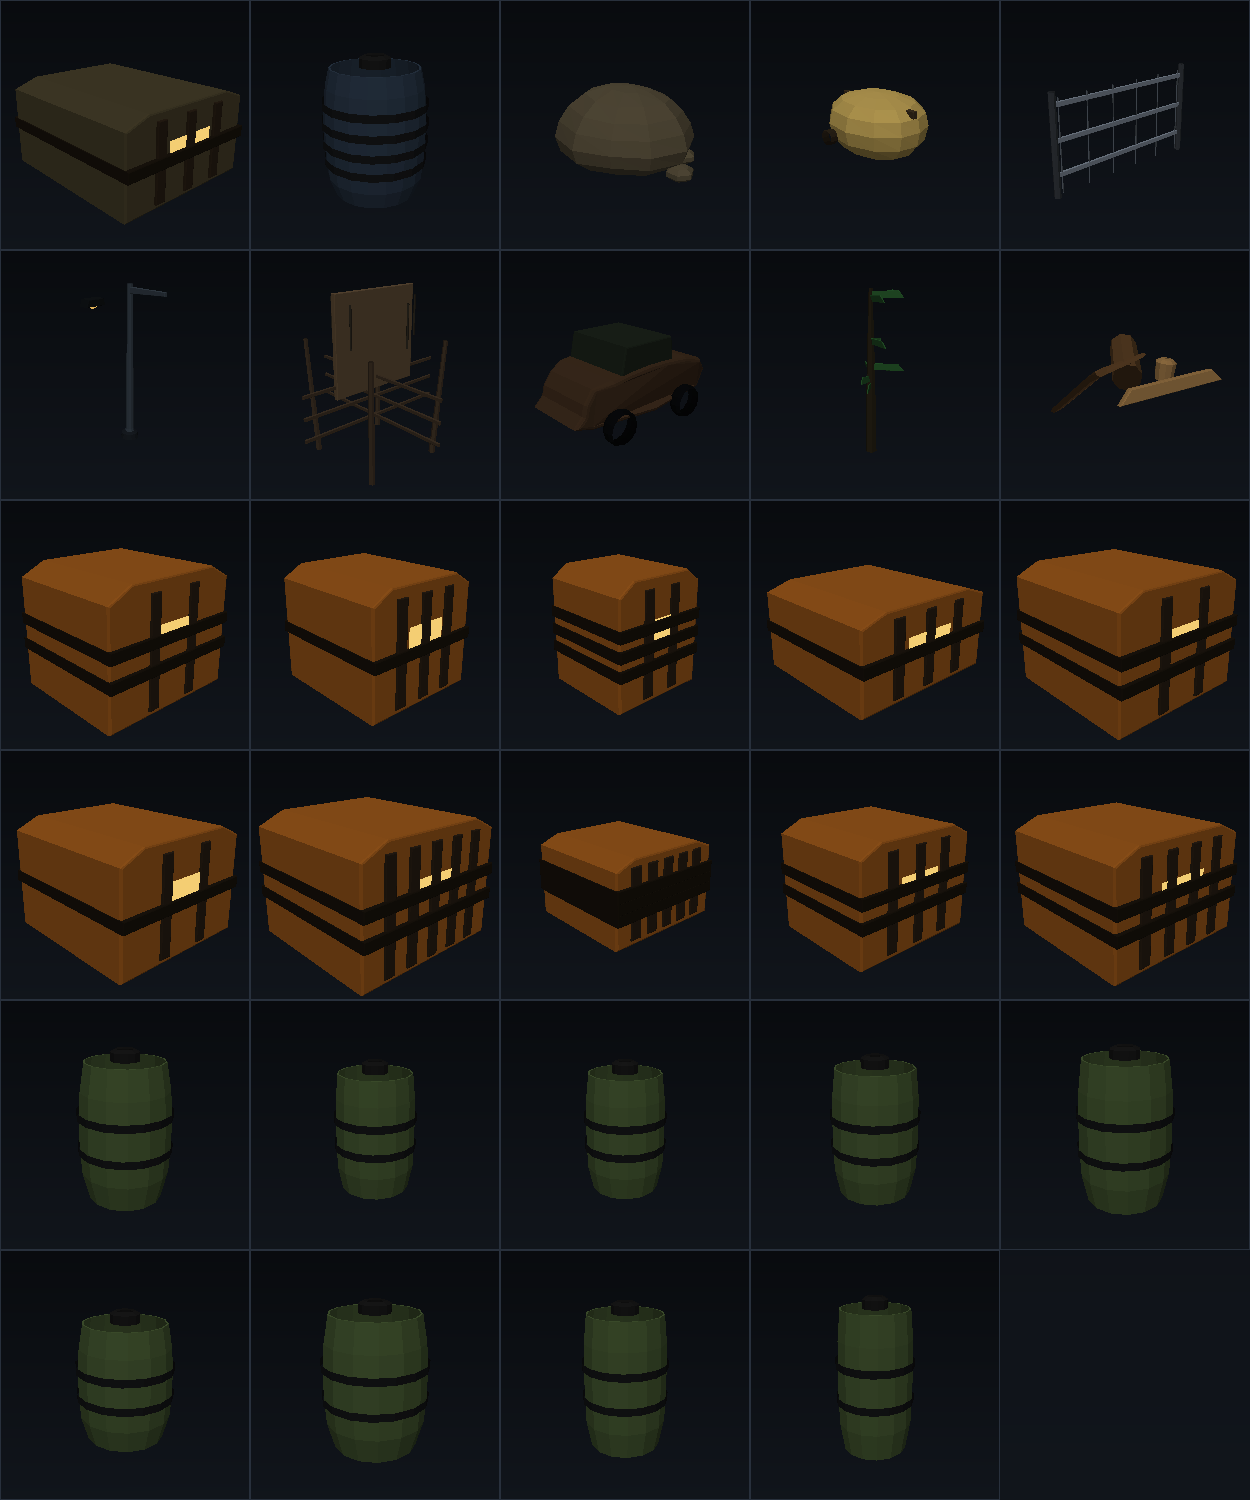
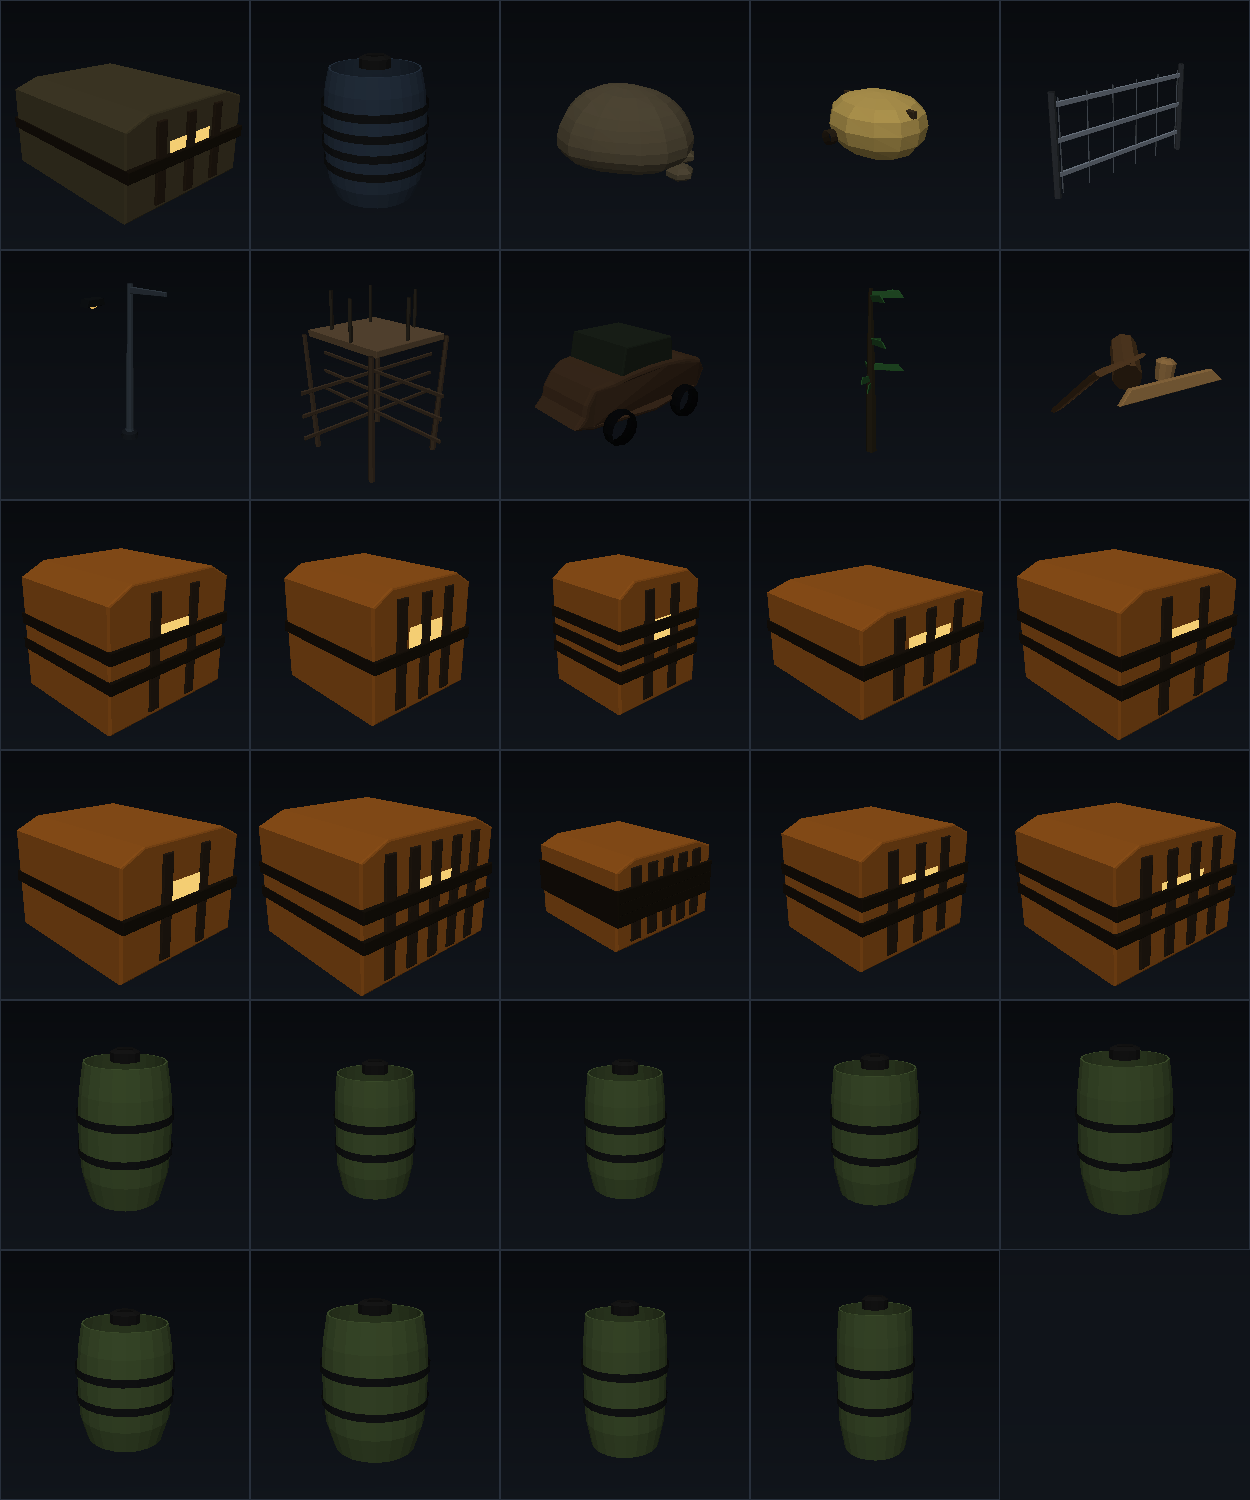
shooter-2: починен «сереющий» белый материал, ящики с каркасом, больше сегментов и процедурный шум поверхностей

Changed region(s): [[0.2496, 0.184, 0.3744, 0.3067]]

diff --git a/shooter-2/src/level.js b/shooter-2/src/level.js
@@ -119,9 +119,9 @@
       { at: [0, BAG_H * 0.90, 0], pts: oval(0.86) },
       { at: [0, BAG_H * 1.00, 0], pts: oval(0.62) }
     ]);
-    const m = SH2.model.mat(color || 0x6f6547, { flat: true });
+    const m = SH2.model.mat(color || 0x6f6547, { flat: true, mapNoise: 'blotch' });
     // второй тон — часть мешков чуть темнее, чтобы кладка читалась без швов
-    const m2 = SH2.model.mat(0x645c40, { flat: true });
+    const m2 = SH2.model.mat(0x645c40, { flat: true, mapNoise: 'blotch' });
     const n = Math.max(3, Math.round(len / STEP));
     const rnd = (i, r) => {
       const v = Math.sin(i * 12.9898 + r * 78.233) * 43758.5453;
@@ -487,6 +487,14 @@
     return m;
   }
 
+  /* Затемнить/осветлить цвет, не трогая исходный объект: множитель
+     применяется к каналам, результат — новый 0xRRGGBB. */
+  function shade(color, k) {
+    const r = (color >> 16) & 255, g = (color >> 8) & 255, b = color & 255;
+    const ch = (v) => Math.max(0, Math.min(255, Math.round(k < 0 ? v * (1 + k) : v + (255 - v) * k)));
+    return (ch(r) << 16) | (ch(g) << 8) | ch(b);
+  }
+
   /* морской контейнер: рёбра жёсткости по бортам, рифлёный */
   function container(len, h, color) {
     const T = THREE();
@@ -496,8 +504,12 @@
     const rib = SH2.outline.outlineMesh([
       [-0.02, h - 0.10], [0.02, h - 0.10], [0.02, 0.10], [-0.02, 0.10]
     ], { depth: 0.04, bevel: 0.008 });
-    const ribMat = SH2.model.mat(0xffffff, { flat: true });
-    ribMat.color.offsetHSL(0, 0, -0.06);
+    /* Рёбра темнее корпуса. Раньше здесь брался материал из общего кэша
+       (SH2.model.mat(0xffffff)) и затемнялся на месте — а кэш один на всю
+       игру, поэтому каждый контейнер гасил ОДИН И ТОТ ЖЕ белый материал:
+       после пятого контейнера любая белая деталь карты становилась серой.
+       Теперь цвет считается заранее и не мутирует чужой материал. */
+    const ribMat = SH2.model.mat(shade(color, -0.09), { flat: true, mapNoise: 'grain' });
     const n = Math.max(3, Math.round(len / 0.62));
     for (let i = 0; i < n; i++) {
       const x = -len / 2 + (i + 0.5) * (len / n);
@@ -1010,8 +1022,8 @@
     const o = opts || {};
     const g = new T.Group();
     const colliders = [];
-    const dark = SH2.model.mat(0x3a3a35, { flat: true });
-    const postMat = SH2.model.mat(0x4a4a42, { flat: true });
+    const dark = SH2.model.mat(0x3a3a35, { flat: true, mapNoise: 'grain' });
+    const postMat = SH2.model.mat(0x4a4a42, { flat: true, mapNoise: 'grain' });
     const wireMat = SH2.model.mat(0x6a6f68, { flat: false });
 
     // сетка-рабица: полотно из редких прутьев (не текстура, а геометрия)
@@ -1173,21 +1185,62 @@
     return g;
   }
 
-  /* ящики: сложенный штабель, каждый ящик чуть повёрнут */
+  /* ящик: корпус + силовой каркас. Без каркаса это был просто параллелепипед
+     со скошенными рёбрами — именно он и выглядел «коробкой из примитивов».
+     Геометрия каркаса строится один раз и переиспользуется всеми ящиками. */
+  let crateKit = null;
+  function crateParts() {
+    if (crateKit) return crateKit;
+    const O = SH2.outline;
+    const W = 0.64, H = 0.62, half = W / 2;
+    /* угловые стойки: узкий брусок по высоте ящика */
+    const post = O.outlineMesh([[-0.035, 0.02], [0.035, 0.02], [0.030, H - 0.02], [-0.030, H - 0.02]],
+      { depth: 0.07, bevel: 0.006 });
+    /* две стяжные ленты по периметру */
+    const belt = O.outlineMesh([[-half - 0.012, -0.028], [half + 0.012, -0.028],
+      [half + 0.012, 0.028], [-half - 0.012, 0.028]], { depth: W + 0.024, bevel: 0.006 });
+    /* поперечина-накладка на крышке */
+    const lid = O.outlineMesh([[-half + 0.05, 0], [half - 0.05, 0], [half - 0.05, 0.018], [-half + 0.05, 0.018]],
+      { depth: 0.10, bevel: 0.004 });
+    crateKit = { post, belt, lid, H, half };
+    return crateKit;
+  }
+
   function crates(n, color) {
     const T = THREE();
     const g = new T.Group();
     const geo = SH2.outline.outlineMesh([[-0.32, 0], [0.32, 0], [0.32, 0.62], [-0.32, 0.62]], { depth: 0.62, bevel: 0.05 });
-    const m = SH2.model.mat(color || 0x5b4a33, { flat: true });
+    const base = color || 0x5b4a33;
+    const m = SH2.model.mat(base, { flat: true, mapNoise: 'blotch' });
+    const wood = SH2.model.mat(shade(base, -0.16), { flat: true, mapNoise: 'blotch' });
+    const kit = crateParts();
     let placed = 0;
     for (let layer = 0; layer < 3 && placed < n; layer++) {
       const k = Math.min(n - placed, 3 - layer);
       for (let i = 0; i < k; i++) {
-        const mesh = new T.Mesh(geo, m);
-        mesh.position.set((i - (k - 1) / 2) * 0.68, layer * 0.64, (Math.random() - 0.5) * 0.05);
-        mesh.rotation.y = (Math.random() - 0.5) * 0.12;
-        mesh.castShadow = true; mesh.receiveShadow = true;
-        g.add(mesh);
+        const one = new T.Group();
+        const body = new T.Mesh(geo, m);
+        body.castShadow = true; body.receiveShadow = true;
+        one.add(body);
+        /* каркас — четыре стойки, две ленты, накладка */
+        for (const sx of [-1, 1]) for (const sz of [-1, 1]) {
+          const p = new T.Mesh(kit.post, wood);
+          p.position.set(sx * (kit.half + 0.002), 0, sz * (kit.half + 0.002));
+          p.castShadow = true;
+          one.add(p);
+        }
+        for (const y of [kit.H * 0.22, kit.H * 0.78]) {
+          const b = new T.Mesh(kit.belt, wood);
+          b.position.set(0, y, 0);
+          one.add(b);
+        }
+        const l = new T.Mesh(kit.lid, wood);
+        l.position.set(0, kit.H, 0);
+        one.add(l);
+
+        one.position.set((i - (k - 1) / 2) * 0.68, layer * 0.64, (Math.random() - 0.5) * 0.05);
+        one.rotation.y = (Math.random() - 0.5) * 0.12;
+        g.add(one);
         placed++;
       }
     }

diff --git a/shooter-2/src/model.js b/shooter-2/src/model.js
@@ -27,13 +27,57 @@
     return (L(r) << 16) | (L(g) << 8) | L(b);
   }
 
+  /* Материал по цвету и настройкам. Кэш один на игру, поэтому материал,
+     выданный отсюда, считается ОБЩИМ: менять его цвет на месте нельзя —
+     потемнеет всё, что этим цветом нарисовано (так «серела» вся карта от
+     рёбер контейнеров). Процедурный шум поверхности — mapNoise. */
+  const noiseCache = new Map();
+
+  /* Мягкий процедурный шум в canvas-текстуре: даёт «материальность» без
+     внешних файлов. Один и тот же шум переиспользуется всеми материалами
+     с этим ключом, поэтому на всю карту приходится 2–3 текстуры. */
+  function noiseTexture(kind) {
+    if (noiseCache.has(kind)) return noiseCache.get(kind);
+    const T = THREE();
+    const doc = root.document;
+    let tex = null;
+    if (doc && doc.createElement) {
+      const cv = doc.createElement('canvas');
+      const size = kind === 'grain' ? 64 : 128;
+      cv.width = cv.height = size;
+      const g = cv.getContext && cv.getContext('2d');
+      if (g) {
+        /* крупное пятно + мелкое зерно: так читается и вблизи, и вдали */
+        g.fillStyle = '#ffffff';
+        g.fillRect(0, 0, size, size);
+        for (let i = 0; i < size * size * 0.28; i++) {
+          const x = Math.random() * size, y = Math.random() * size;
+          const v = 200 + Math.random() * 55;
+          g.fillStyle = 'rgba(' + v + ',' + v + ',' + v + ',' + (0.35 + Math.random() * 0.4) + ')';
+          g.fillRect(x, y, 1 + Math.random() * 2, 1 + Math.random() * 2);
+        }
+        tex = new T.CanvasTexture(cv);
+        tex.wrapS = tex.wrapT = T.RepeatWrapping;
+        tex.repeat.set(kind === 'grain' ? 4 : 2, kind === 'grain' ? 4 : 2);
+      }
+    }
+    if (!tex) tex = null;
+    noiseCache.set(kind, tex);
+    return tex;
+  }
+
   function mat(color, opts) {
     const key = lift(color) + '|' + mapLift + '|' + JSON.stringify(opts || {});
     let m = matCache.get(key);
     if (m) return m;
     const o = opts || {};
+    /* mapNoise: 'grain' — мелкое зерно (металл, бетон), 'blotch' — пятна
+       (ткань, грунт). Без него материал остаётся ровной заливкой. */
+    const map = o.mapNoise ? noiseTexture(o.mapNoise) : null;
     m = new (THREE().MeshLambertMaterial)({
       color: lift(color),
+      /* при наличии карты шума цвет умножается на неё — компенсируем */
+      map,
       flatShading: !!o.flat,
       transparent: !!o.transparent,
       opacity: o.opacity === undefined ? 1 : o.opacity,
@@ -42,6 +86,7 @@
       side: o.side || THREE().FrontSide,
       depthWrite: o.depthWrite === undefined ? true : o.depthWrite
     });
+    if (map) m.color.multiplyScalar(1.12);
     matCache.set(key, m);
     return m;
   }
@@ -264,11 +309,13 @@
     const O = SH2.outline;
     const g = new T.Group();
     const H = s * 0.93, R = s * 0.44;
-    const m = mat(color || 0x6a4a2c, { flat: true });
+    const m = mat(color || 0x6a4a2c, { flat: true, mapNoise: 'grain' });
+    /* 24 сегмента вместо 14: на близком плане бочка больше не «ведро»;
+       рёбра профиля остаются, меняется только гладкость силуэта */
     const body = new T.Mesh(O.revolve([
       [0, 0], [0.015 * s, R * 0.88], [H * 0.10, R * 1.00],
       [H * 0.50, R * 1.05], [H * 0.90, R * 1.00], [H * 0.985, R * 0.93], [H, 0]
-    ], { segments: 14 }), m);
+    ], { segments: 24 }), m);
     body.castShadow = true; body.receiveShadow = true;
     g.add(body);
     // обручи: узкие обода чуть шире корпуса, тёмный металл
@@ -296,7 +343,7 @@
       [-0.5, 0.02], [-0.34, 0.34], [-0.10, 0.60], [0.22, 0.52], [0.44, 0.26], [0.50, 0.02]
     ], 2), { depth: s * 0.9, bevel: s * 0.10, bevelSegments: 2 });
     geo.scale(s * 1.1, s * 1.1, s * 1.1);
-    return new T.Mesh(geo, mat(color || 0x585349, { flat: true }));
+    return new T.Mesh(geo, mat(color || 0x585349, { flat: true, mapNoise: 'blotch' }));
   }
   function propSandbags(count, color) {
     const T = THREE();

diff --git a/shooter-2/src/meshpack.js b/shooter-2/src/meshpack.js
@@ -166,7 +166,9 @@
           prof.push([h * t, r * k * (t > 0.93 ? 0.96 : 1)]);
         }
         prof.push([h, r * 0.92]);
-        parts.push({ geo: O.revolve(prof, { segments: 14 + (v % 4) * 2 }), color, pos: [0, 0, 0], rot: [0, 0, 0] });
+        /* 22–30 сегментов вместо 14–20: на близкой дистанции силуэт
+           перестаёт быть «гранёным ведром», оставаясь мешем */
+        parts.push({ geo: O.revolve(prof, { segments: 22 + (v % 4) * 3 }), color, pos: [0, 0, 0], rot: [0, 0, 0] });
         /* обручи: радиус берём по профилю в этой высоте, иначе кольцо
            проваливается в «пузо» и рисуется чёрными обрывками */
         const rAt = (y) => {
@@ -178,7 +180,7 @@
           const y = lerp(0.10, h - 0.14, (i + 1) / (hoops + 1));
           const rr = rAt(y) * 1.03 + 0.004;
           parts.push({
-            geo: O.revolve([[y, rr], [y + 0.055, rr]], { segments: 16 }),
+            geo: O.revolve([[y, rr], [y + 0.055, rr]], { segments: 24 }),
             color: 0x35383a, pos: [0, 0, 0], rot: [0, 0, 0]
           });
         }
@@ -207,7 +209,7 @@
         const color = PALETTES.rock[v % PALETTES.rock.length];
         /* валун: несколько сжатых сфер со смещением — так силуэт «рваный»,
            но поверхность остаётся гладкой, без «пузырей» из плоских граней */
-        const core = new T.SphereGeometry(s, 10 + (v % 4), 8 + (v % 3));
+        const core = new T.SphereGeometry(s, 16 + (v % 5), 12 + (v % 4));
         const pos = core.attributes.position;
         const ph = rng() * 6;
         for (let i = 0; i < pos.count; i++) {
